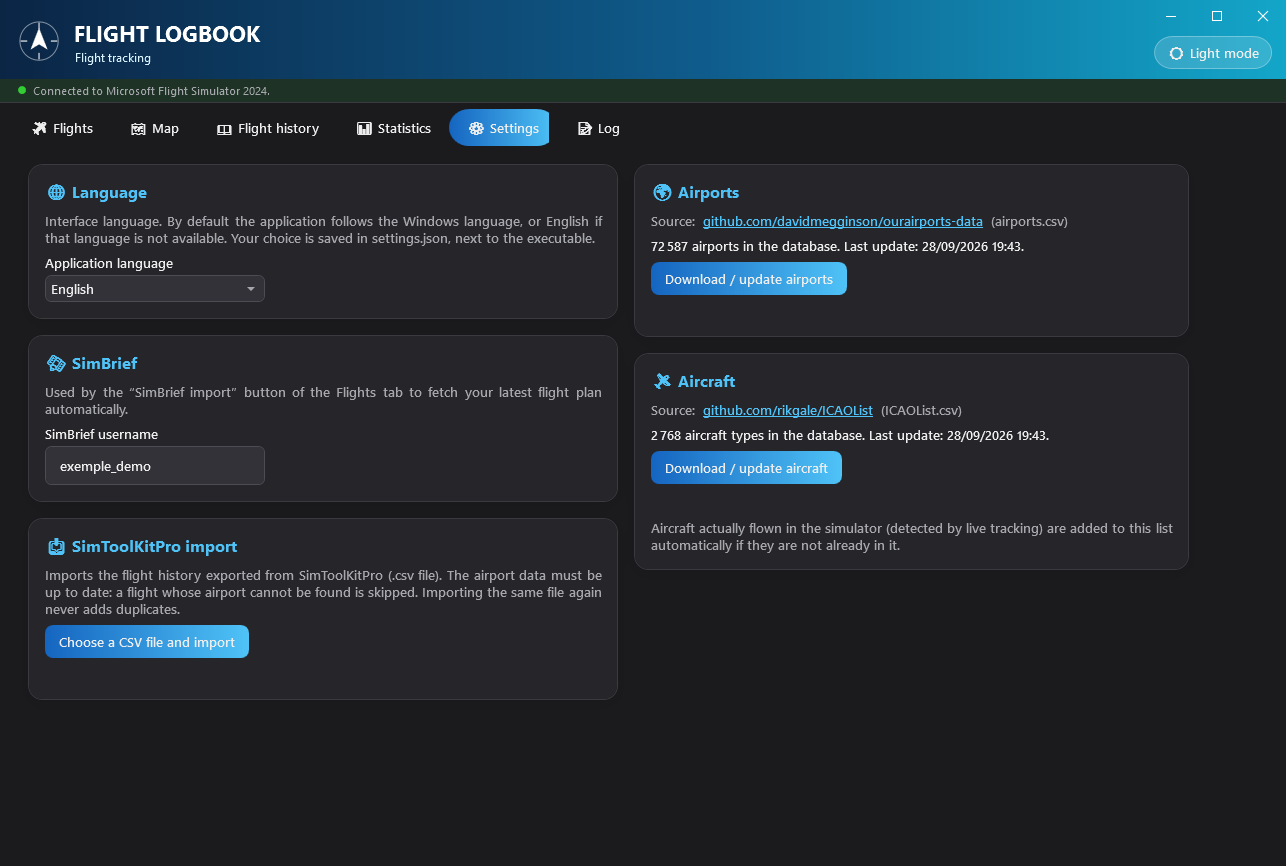
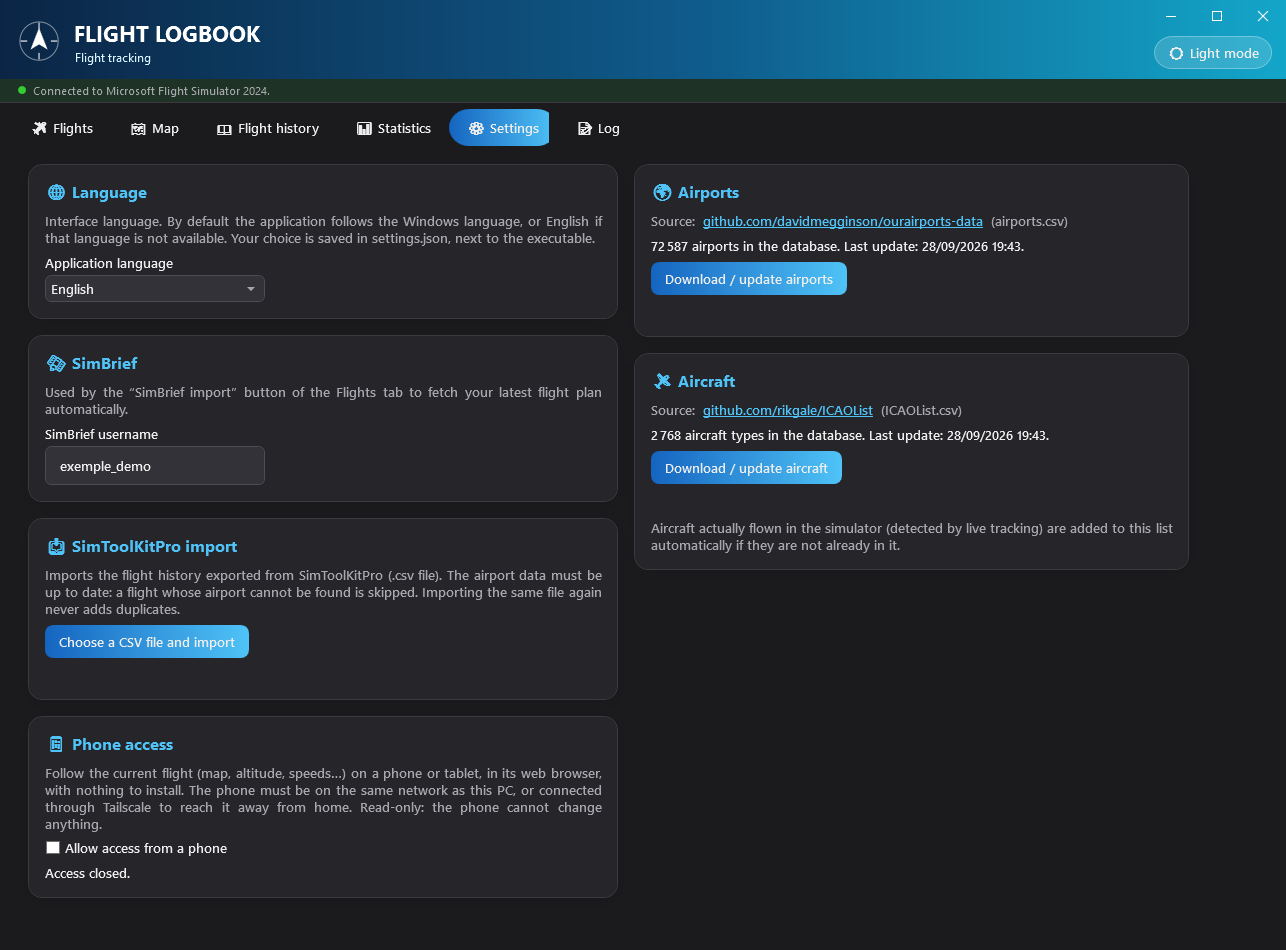
Carnet de Vol 2.0.0 : guides, capture Configuration et mentions de Leaflet
- Guides recopiés depuis CarnetDeVol (version 2.0.0, accès depuis le
  téléphone) avec les captures de la page du téléphone (fr/en/es).
- Captures Configuration fr/en refaites (nouvelle carte « Accès depuis le
  téléphone ») : 1286 × 950, SIZES mis à jour.
- Copyright FR/EN : carte « Composant tiers intégré : Leaflet » (BSD à
  2 clauses, mention de copyright et avertissement) ; OpenStreetMap sert
  aussi à la page du téléphone.

diff --git a/assets/js/i18n.js b/assets/js/i18n.js
@@ -171,6 +171,8 @@ window.KH_I18N = {
     "cr.marksText": "<p>Microsoft Flight Simulator 2024, SimConnect et Windows sont des marques de Microsoft Corporation. SimBrief est une marque de Navigraph. Les autres noms cités appartiennent à leurs propriétaires respectifs.</p><p>Carnet de Vol et Camify sont des projets indépendants : ils ne sont ni affiliés, ni approuvés, ni soutenus par Microsoft, Navigraph ou les autres services cités sur cette page.</p>",
     "cr.componentsTitle": "Composant tiers intégré : SimConnect.dll (Camify)",
     "cr.componentsText": "<p><code>Camify.exe</code> intègre, sans modification, le fichier <code>SimConnect.dll</code> (client SimConnect natif x64) issu du Microsoft Flight Simulator 2024 SDK 1.7.3. <code>SimConnect.dll</code> © Microsoft Corporation, tous droits réservés.</p><p>Il est fourni « tel quel », sans garantie, et reste soumis aux termes de licence du Microsoft Flight Simulator SDK, joints à chaque version de Camify sous le nom <code>MSFS-SDK-EULA.pdf</code>. Camify l'utilise uniquement pour communiquer avec une copie de Microsoft Flight Simulator 2024 légalement installée, et ne le charge que si son empreinte SHA-256 correspond à celle attendue.</p>",
+    "cr.leafletTitle": "Composant tiers intégré : Leaflet (Carnet de Vol)",
+    "cr.leafletText": "<p><code>CarnetDeVol.exe</code> intègre, sans modification, la bibliothèque cartographique <a href=\"https://leafletjs.com/\">Leaflet</a> 1.9.4, qui affiche la carte de la page du téléphone (accès depuis le téléphone). Copyright © 2010-2023, Volodymyr Agafonkin ; copyright © 2010-2011, CloudMade. Tous droits réservés.</p><p>Leaflet est distribuée sous <a href=\"https://github.com/Leaflet/Leaflet/blob/main/LICENSE\">licence BSD à 2 clauses</a> : la redistribution, avec ou sans modification, est permise à condition de reproduire cette mention de copyright, cette liste de conditions et l'avertissement suivant. Le logiciel est fourni par les détenteurs du copyright et les contributeurs « tel quel », sans aucune garantie expresse ou implicite ; ils ne sauraient être tenus responsables d'aucun dommage résultant de son utilisation.</p>",
     "cr.dataTitle": "Sources de données et licences",
     "cr.dataIntro": "Les applications n'utilisent que des appels en lecture seule vers les services ci-dessous. Conditions vérifiées le 24/09/2026 sur les pages officielles de chaque service ; elles peuvent évoluer, les liens indiqués font foi.",
     "cr.thService": "Service",
@@ -178,7 +180,7 @@ window.KH_I18N = {
     "cr.thUse": "Utilisation",
     "cr.thLicense": "Licence / conditions",
     "cr.bothApps": "Les deux",
-    "cr.osm.use": "Fond de carte de l'onglet Carte (tuiles tile.openstreetmap.org)",
+    "cr.osm.use": "Fond de carte de l'onglet Carte et de la page du téléphone (tuiles tile.openstreetmap.org)",
     "cr.osm.license": "Données sous licence <a href=\"https://opendatacommons.org/licenses/odbl/\">ODbL</a>, attribution « © OpenStreetMap contributors » obligatoire ; usage des tuiles soumis à la <a href=\"https://operations.osmfoundation.org/policies/tiles/\">politique d'usage des tuiles</a> de l'OSMF.",
     "cr.ourairports.use": "Carnet de Vol : référentiel des aéroports (<code>airports.csv</code>). Camify : aéroports et pistes (<code>airports.csv</code>, <code>runways.csv</code>) pour le mode tour de contrôle, téléchargés au premier lancement.",
     "cr.ourairports.license": "Domaine public (dépôt sous The Unlicense) ; fourni sans garantie d'exactitude.",
@@ -360,6 +362,8 @@ window.KH_I18N = {
     "cr.marksText": "<p>Microsoft Flight Simulator 2024, SimConnect and Windows are trademarks of Microsoft Corporation. SimBrief is a trademark of Navigraph. Other names mentioned belong to their respective owners.</p><p>Flight Logbook and Camify are independent projects: they are not affiliated with, endorsed or sponsored by Microsoft, Navigraph or the other services mentioned on this page.</p>",
     "cr.componentsTitle": "Embedded third-party component: SimConnect.dll (Camify)",
     "cr.componentsText": "<p><code>Camify.exe</code> embeds, unmodified, the <code>SimConnect.dll</code> file (native x64 SimConnect client) from the Microsoft Flight Simulator 2024 SDK 1.7.3. <code>SimConnect.dll</code> © Microsoft Corporation, all rights reserved.</p><p>It is provided “as is”, without warranty, and remains subject to the Microsoft Flight Simulator SDK license terms, attached to each Camify release as <code>MSFS-SDK-EULA.pdf</code>. Camify only uses it to communicate with a legally installed copy of Microsoft Flight Simulator 2024, and only loads it when its SHA-256 fingerprint matches the expected one.</p>",
+    "cr.leafletTitle": "Embedded third-party component: Leaflet (Flight Logbook)",
+    "cr.leafletText": "<p><code>CarnetDeVol.exe</code> embeds, unmodified, the <a href=\"https://leafletjs.com/\">Leaflet</a> 1.9.4 mapping library, which draws the map of the phone page (phone access). Copyright © 2010-2023, Volodymyr Agafonkin; copyright © 2010-2011, CloudMade. All rights reserved.</p><p>Leaflet is distributed under the <a href=\"https://github.com/Leaflet/Leaflet/blob/main/LICENSE\">2-clause BSD license</a>: redistribution, with or without modification, is permitted provided that this copyright notice, this list of conditions and the following disclaimer are retained. The software is provided by the copyright holders and contributors “as is”, without any express or implied warranty; in no event shall they be liable for any damages arising from its use.</p>",
     "cr.dataTitle": "Data sources and licences",
     "cr.dataIntro": "The applications only make read-only calls to the services below. Terms checked on 24/09/2026 on each service's official pages; they may change, and the linked pages prevail.",
     "cr.thService": "Service",
@@ -367,7 +371,7 @@ window.KH_I18N = {
     "cr.thUse": "Use",
     "cr.thLicense": "Licence / terms",
     "cr.bothApps": "Both",
-    "cr.osm.use": "Base map of the Map tab (tile.openstreetmap.org tiles)",
+    "cr.osm.use": "Base map of the Map tab and of the phone page (tile.openstreetmap.org tiles)",
     "cr.osm.license": "Data under the <a href=\"https://opendatacommons.org/licenses/odbl/\">ODbL</a>, “© OpenStreetMap contributors” attribution required; tile use subject to the OSMF <a href=\"https://operations.osmfoundation.org/policies/tiles/\">tile usage policy</a>.",
     "cr.ourairports.use": "Flight Logbook: airport reference data (<code>airports.csv</code>). Camify: airports and runways (<code>airports.csv</code>, <code>runways.csv</code>) for the control tower mode, downloaded on first launch.",
     "cr.ourairports.license": "Public domain (repository under The Unlicense); provided with no guarantee of accuracy.",

diff --git a/guides/carnetdevol/guia-usuario.html b/guides/carnetdevol/guia-usuario.html
@@ -272,7 +272,7 @@
   <div class="icon">🧭</div>
   <h1>Bitácora de vuelo — Guía del usuario</h1>
   <p>Seguimiento de vuelos · Microsoft Flight Simulator 2024</p>
-  <span class="badge">Versión 1.0.27 · Windows · aplicación nativa</span>
+  <span class="badge">Versión 2.0.0 · Windows · aplicación nativa</span>
 </header>
 
 <div class="layout">
@@ -713,11 +713,11 @@
 
     <section id="pestana-configuracion" class="tab-section">
       <h2 class="section-title"><span class="emoji">⚙</span> 8. Configuración</h2>
-      <p class="section-lead">Idioma de la aplicación, usuario de SimBrief, actualización de aeropuertos/aeronaves e importación de SimToolKitPro.</p>
+      <p class="section-lead">Idioma de la aplicación, usuario de SimBrief, actualización de aeropuertos/aeronaves, importación de SimToolKitPro y acceso desde el teléfono.</p>
       <figure>
-        <img src="../../assets/img/carnetdevol/en-config.png" alt="Pestaña Configuración con los bloques Idioma, SimBrief, Aeropuertos y Aeronaves" loading="lazy" />
+        <img src="../../assets/img/carnetdevol/en-config.png" alt="Pestaña Configuración con los bloques Idioma, SimBrief, Importación SimToolKitPro, Acceso desde el teléfono, Aeropuertos y Aeronaves" loading="lazy" />
         <figcaption>Los ajustes a la izquierda (idioma, usuario de SimBrief, importación de
-        SimToolKitPro) y los conjuntos de datos a la derecha, con sus contadores y la fecha de la
+        SimToolKitPro, acceso desde el teléfono) y los conjuntos de datos a la derecha, con sus contadores y la fecha de la
         última actualización.</figcaption>
       </figure>
       <div class="card">
@@ -770,6 +770,49 @@
           <strong>Sin riesgo de duplicados</strong>
           Importar varias veces el mismo archivo nunca añade dos veces el mismo vuelo.
         </div>
+
+        <h4 id="acceso-telefono">📱 Acceso desde el teléfono</h4>
+        <p>Sigue el vuelo en curso desde un <strong>teléfono</strong> o una <strong>tableta</strong>
+        (iPhone, Android…), en su navegador, sin instalar nada: posición del avión en el mapa con la
+        traza del vuelo, altitud, velocidad sobre el suelo, velocidad vertical, rumbo, fase (en
+        tierra / en vuelo), factor de carga, salida y llegada, aeronave, duración del seguimiento,
+        llegada estimada y último aterrizaje. El teléfono es de <strong>solo lectura</strong>: no
+        puede modificar nada en Carnet de Vol.</p>
+        <figure>
+          <img src="images/es-telephone.jpg" alt="Página del teléfono: mapa con la traza del vuelo Londres – París, altitud, velocidades, rumbo, fase y factor de carga" loading="lazy" style="max-width: 320px;" />
+          <figcaption>La página del teléfono durante un vuelo; el icono Compartir, arriba a la derecha, prepara el añadido a la pantalla de inicio.</figcaption>
+        </figure>
+        <ol>
+          <li>Marca <strong>Permitir el acceso desde el teléfono</strong> (desactivado por defecto).
+          La primera vez, Windows puede pedir que se permita Carnet de Vol en su cortafuegos:
+          permítelo solo en <strong>redes privadas</strong>.</li>
+          <li>Elige la <strong>dirección del PC</strong> (red local, o Tailscale para acceder desde
+          fuera de casa) y haz clic en <strong>Mostrar el código QR</strong>.</li>
+          <li>Escanea el código QR con la <strong>cámara</strong> del teléfono: la página se abre
+          directamente. Para convertirla en un icono, como una aplicación, toca primero el icono
+          <strong>Compartir</strong> junto al estado, arriba de la página, y luego Compartir en Safari y
+          <strong>Añadir a pantalla de inicio</strong>.</li>
+        </ol>
+        <div class="callout note">
+          <strong>Seguridad</strong>
+          El código QR contiene un <strong>código secreto</strong> propio de tu PC: sin él, no se
+          transmite ningún dato. No lo compartas; se oculta solo al cabo de tres minutos. Ante la
+          duda, <strong>Cambiar el código</strong> desconecta de inmediato todos los teléfonos, que
+          deberán escanear el nuevo código QR. Solo pueden conectarse los dispositivos de tu red
+          local (o de tu red Tailscale); hasta cuatro teléfonos a la vez.
+        </div>
+        <div class="callout tip">
+          <strong>Fuera de casa</strong>
+          Instala <a href="https://tailscale.com/" target="_blank" rel="noopener">Tailscale</a>
+          (gratuito para uso personal) en el PC y en el teléfono, con la misma cuenta: la dirección
+          Tailscale del PC (100.x.x.x) aparece entonces en la lista. La conexión está cifrada y no
+          hay que abrir ningún puerto en el router. No redirijas nunca el puerto 8741 del router al
+          PC: las conexiones procedentes de Internet se rechazan de todos modos.
+        </div>
+        <p>Si el teléfono muestra «PC inaccesible», comprueba que Carnet de Vol está abierto, que el
+        acceso está marcado y que el teléfono está en la misma red Wi-Fi que el PC (no en una red de
+        invitados, ni en 4G/5G sin Tailscale). El ajuste y el código se guardan en
+        <code class="path">settings.json</code>, junto al ejecutable.</p>
       </div>
     </section>
 
@@ -923,6 +966,13 @@
             (<a href="https://www.weather.gov/disclaimer" target="_blank" rel="noopener">aviso legal del NWS</a>),
             proporcionada «tal cual», sin garantía; límite de 100 consultas por minuto.</td>
           </tr>
+          <tr>
+            <td><a href="https://leafletjs.com/" target="_blank" rel="noopener">Leaflet</a> 1.9.4</td>
+            <td>Mapa de la página del teléfono (<a href="#acceso-telefono">acceso desde el teléfono</a>),
+            incluido en el ejecutable; mapa base de OpenStreetMap cargado por el teléfono</td>
+            <td>Licencia <strong>BSD de 2 cláusulas</strong>: © 2010-2023 Volodymyr Agafonkin,
+            © 2010-2011 CloudMade.</td>
+          </tr>
         </table>
         <div class="callout note">
           <strong>Uso exclusivamente simulado</strong>
@@ -950,7 +1000,7 @@
 </div>
 
 <footer>
-  Bitácora de vuelo (Carnet de Vol) — FS2024 · Guía redactada para la versión 1.0.27.
+  Bitácora de vuelo (Carnet de Vol) — FS2024 · Guía redactada para la versión 2.0.0.
 </footer>
 
 <script>

diff --git a/guides/carnetdevol/guide-utilisateur.html b/guides/carnetdevol/guide-utilisateur.html
@@ -272,7 +272,7 @@
   <div class="icon">🧭</div>
   <h1>Carnet de Vol — Guide de l'utilisateur</h1>
   <p>Suivi de vols · Microsoft Flight Simulator 2024</p>
-  <span class="badge">Version 1.0.27 · Windows · application native</span>
+  <span class="badge">Version 2.0.0 · Windows · application native</span>
 </header>
 
 <div class="layout">
@@ -704,10 +704,10 @@
 
     <section id="onglet-configuration" class="tab-section">
       <h2 class="section-title"><span class="emoji">⚙</span> 8. Configuration</h2>
-      <p class="section-lead">Langue de l'application, identifiant SimBrief, mise à jour des bases aéroports/appareils, et import SimToolKitPro.</p>
+      <p class="section-lead">Langue de l'application, identifiant SimBrief, mise à jour des bases aéroports/appareils, import SimToolKitPro et accès depuis le téléphone.</p>
       <figure>
-        <img src="../../assets/img/carnetdevol/fr-config.png" alt="Onglet Configuration avec les blocs Langue, SimBrief, Aéroports et Appareils" loading="lazy" />
-        <figcaption>Les réglages à gauche (langue, identifiant SimBrief, import SimToolKitPro), les
+        <img src="../../assets/img/carnetdevol/fr-config.png" alt="Onglet Configuration avec les blocs Langue, SimBrief, Import SimToolKitPro, Accès depuis le téléphone, Aéroports et Appareils" loading="lazy" />
+        <figcaption>Les réglages à gauche (langue, identifiant SimBrief, import SimToolKitPro, accès depuis le téléphone), les
         référentiels à droite, avec leurs compteurs et leur date de dernière mise à jour.</figcaption>
       </figure>
       <div class="card">
@@ -761,6 +761,49 @@
           <strong>Sans risque de doublon</strong>
           Réimporter plusieurs fois le même fichier n'ajoute jamais deux fois le même vol.
         </div>
+
+        <h4 id="acces-telephone">📱 Accès depuis le téléphone</h4>
+        <p>Suivez le vol en cours depuis un <strong>téléphone</strong> ou une <strong>tablette</strong>
+        (iPhone, Android…), dans son navigateur, sans rien installer : position de l'avion sur la
+        carte avec le tracé du vol, altitude, vitesse sol, vitesse verticale, cap, phase (au sol / en
+        vol), facteur de charge, départ et arrivée, appareil, durée du suivi, arrivée estimée et
+        dernier atterrissage. Le téléphone est en <strong>lecture seule</strong> : il ne peut rien
+        modifier dans Carnet de Vol.</p>
+        <figure>
+          <img src="images/fr-telephone.jpg" alt="Page du téléphone : carte avec le tracé du vol Londres – Paris, altitude, vitesses, cap, phase et facteur de charge" loading="lazy" style="max-width: 320px;" />
+          <figcaption>La page du téléphone pendant un vol ; l'icône Partager, en haut à droite, prépare l'ajout à l'écran d'accueil.</figcaption>
+        </figure>
+        <ol>
+          <li>Cochez <strong>Autoriser l'accès depuis le téléphone</strong> (désactivé par défaut).
+          À la première activation, Windows peut demander d'autoriser Carnet de Vol dans son
+          pare-feu : n'acceptez que pour les <strong>réseaux privés</strong>.</li>
+          <li>Choisissez l'<strong>adresse du PC</strong> (réseau local, ou Tailscale pour un accès
+          hors de chez vous), puis cliquez <strong>Afficher le QR code</strong>.</li>
+          <li>Scannez le QR code avec l'<strong>appareil photo</strong> du téléphone : la page
+          s'ouvre directement. Pour en faire une icône, comme une application, touchez d'abord l'icône
+          <strong>Partager</strong> à droite de l'état, en haut de la page, puis Partager dans Safari et
+          <strong>Sur l'écran d'accueil</strong>.</li>
+        </ol>
+        <div class="callout note">
+          <strong>Sécurité</strong>
+          Le QR code contient un <strong>code secret</strong> propre à votre PC : sans lui, aucune
+          donnée n'est transmise. Ne le partagez pas ; il se masque seul après trois minutes. En cas
+          de doute, <strong>Changer le code</strong> déconnecte immédiatement tous les téléphones,
+          qui devront scanner le nouveau QR code. Seuls les appareils de votre réseau local (ou de
+          votre réseau Tailscale) peuvent se connecter ; jusqu'à quatre téléphones à la fois.
+        </div>
+        <div class="callout tip">
+          <strong>Hors de chez vous</strong>
+          Installez <a href="https://tailscale.com/" target="_blank" rel="noopener">Tailscale</a>
+          (gratuit pour un usage personnel) sur le PC et sur le téléphone, avec le même compte :
+          l'adresse Tailscale du PC (100.x.x.x) apparaît alors dans la liste. La liaison est
+          chiffrée et aucun port n'est à ouvrir sur votre box. Ne redirigez jamais le port 8741 de
+          votre box vers le PC : les connexions venant d'Internet sont de toute façon refusées.
+        </div>
+        <p>Si le téléphone affiche « PC injoignable », vérifiez que Carnet de Vol est ouvert, que
+        l'accès est coché et que le téléphone est sur le même Wi-Fi que le PC (pas en réseau invité,
+        ni en 4G/5G sans Tailscale). Le réglage et le code sont enregistrés dans
+        <code class="path">settings.json</code>, à côté de l'exécutable.</p>
       </div>
     </section>
 
@@ -911,6 +954,13 @@
             (<a href="https://www.weather.gov/disclaimer" target="_blank" rel="noopener">avertissement NWS</a>),
             fournies « en l'état », sans garantie ; limite de 100 requêtes par minute.</td>
           </tr>
+          <tr>
+            <td><a href="https://leafletjs.com/" target="_blank" rel="noopener">Leaflet</a> 1.9.4</td>
+            <td>Carte de la page du téléphone (<a href="#acces-telephone">accès depuis le téléphone</a>),
+            livrée dans l'exécutable ; fond de carte OpenStreetMap chargé par le téléphone</td>
+            <td>Licence <strong>BSD à 2 clauses</strong> : © 2010-2023 Volodymyr Agafonkin,
+            © 2010-2011 CloudMade.</td>
+          </tr>
         </table>
         <div class="callout note">
           <strong>Usage exclusivement simulé</strong>
@@ -938,7 +988,7 @@
 </div>
 
 <footer>
-  Carnet de Vol — FS2024 · Guide généré pour la version 1.0.27.
+  Carnet de Vol — FS2024 · Guide généré pour la version 2.0.0.
 </footer>
 
 <script>

diff --git a/guides/carnetdevol/user-guide.html b/guides/carnetdevol/user-guide.html
@@ -272,7 +272,7 @@
   <div class="icon">🧭</div>
   <h1>Flight Logbook — User guide</h1>
   <p>Flight tracking · Microsoft Flight Simulator 2024</p>
-  <span class="badge">Version 1.0.27 · Windows · native application</span>
+  <span class="badge">Version 2.0.0 · Windows · native application</span>
 </header>
 
 <div class="layout">
@@ -695,10 +695,10 @@
 
     <section id="settings-tab" class="tab-section">
       <h2 class="section-title"><span class="emoji">⚙</span> 8. Settings</h2>
-      <p class="section-lead">Application language, SimBrief username, airport/aircraft data updates, and SimToolKitPro import.</p>
+      <p class="section-lead">Application language, SimBrief username, airport/aircraft data updates, SimToolKitPro import and phone access.</p>
       <figure>
-        <img src="../../assets/img/carnetdevol/en-config.png" alt="Settings tab with the Language, SimBrief, Airports and Aircraft blocks" loading="lazy" />
-        <figcaption>Settings on the left (language, SimBrief username, SimToolKitPro import),
+        <img src="../../assets/img/carnetdevol/en-config.png" alt="Settings tab with the Language, SimBrief, SimToolKitPro import, Phone access, Airports and Aircraft blocks" loading="lazy" />
+        <figcaption>Settings on the left (language, SimBrief username, SimToolKitPro import, phone access),
         reference data on the right, with their counters and last update date.</figcaption>
       </figure>
       <div class="card">
@@ -749,6 +749,48 @@
           <strong>No risk of duplicates</strong>
           Importing the same file several times never adds the same flight twice.
         </div>
+
+        <h4 id="phone-access">📱 Phone access</h4>
+        <p>Follow the current flight on a <strong>phone</strong> or <strong>tablet</strong> (iPhone,
+        Android…), in its web browser, with nothing to install: aircraft position on the map with
+        the flight track, altitude, ground speed, vertical speed, heading, phase (on ground /
+        airborne), load factor, departure and arrival, aircraft, tracking time, estimated arrival and
+        last landing. The phone is <strong>read-only</strong>: it cannot change anything in Carnet
+        de Vol.</p>
+        <figure>
+          <img src="images/en-telephone.jpg" alt="Phone page: map with the London – Paris flight track, altitude, speeds, heading, phase and load factor" loading="lazy" style="max-width: 320px;" />
+          <figcaption>The phone page during a flight; the Share icon at the top right prepares adding it to the Home Screen.</figcaption>
+        </figure>
+        <ol>
+          <li>Tick <strong>Allow access from a phone</strong> (off by default). The first time,
+          Windows may ask to allow Carnet de Vol through its firewall: allow it on
+          <strong>private networks</strong> only.</li>
+          <li>Pick the <strong>PC address</strong> (local network, or Tailscale to reach it away
+          from home), then click <strong>Show the QR code</strong>.</li>
+          <li>Scan the QR code with the phone's <strong>camera</strong>: the page opens directly.
+          To turn it into an icon, like an app, first tap the <strong>Share</strong> icon next to the
+          status at the top of the page, then Share in Safari and <strong>Add to Home Screen</strong>.</li>
+        </ol>
+        <div class="callout note">
+          <strong>Security</strong>
+          The QR code holds a <strong>secret code</strong> unique to your PC: without it, no data is
+          sent. Do not share it; it hides itself after three minutes. If in doubt,
+          <strong>Change the code</strong> disconnects every phone at once; they will have to scan
+          the new QR code. Only devices on your local network (or your Tailscale network) can
+          connect; up to four phones at a time.
+        </div>
+        <div class="callout tip">
+          <strong>Away from home</strong>
+          Install <a href="https://tailscale.com/" target="_blank" rel="noopener">Tailscale</a>
+          (free for personal use) on the PC and on the phone, with the same account: the PC's
+          Tailscale address (100.x.x.x) then appears in the list. The link is encrypted and no port
+          needs to be opened on your router. Never forward port 8741 from your router to the PC:
+          connections coming from the Internet are refused anyway.
+        </div>
+        <p>If the phone shows “PC unreachable”, check that Carnet de Vol is open, that access is
+        ticked and that the phone is on the same Wi-Fi as the PC (not a guest network, nor 4G/5G
+        without Tailscale). The setting and the code are saved in
+        <code class="path">settings.json</code>, next to the executable.</p>
       </div>
     </section>
 
@@ -900,6 +942,13 @@
             (<a href="https://www.weather.gov/disclaimer" target="_blank" rel="noopener">NWS disclaimer</a>),
             provided “as is”, with no warranty; limit of 100 requests per minute.</td>
           </tr>
+          <tr>
+            <td><a href="https://leafletjs.com/" target="_blank" rel="noopener">Leaflet</a> 1.9.4</td>
+            <td>Map of the phone page (<a href="#phone-access">phone access</a>), shipped inside the
+            executable; OpenStreetMap base map loaded by the phone</td>
+            <td><strong>BSD 2-Clause</strong> license: © 2010-2023 Volodymyr Agafonkin,
+            © 2010-2011 CloudMade.</td>
+          </tr>
         </table>
         <div class="callout note">
           <strong>Simulation use only</strong>
@@ -925,7 +974,7 @@
 </div>
 
 <footer>
-  Flight Logbook (Carnet de Vol) — FS2024 · Guide written for version 1.0.27.
+  Flight Logbook (Carnet de Vol) — FS2024 · Guide written for version 2.0.0.
 </footer>
 
 <script>

diff --git a/assets/js/main.js b/assets/js/main.js
@@ -105,7 +105,7 @@
 
   var SIZES = {
     vols: [1286, 866], carte: [1286, 866], historique: [1845, 866],
-    stats: [1286, 866], config: [1286, 866], atterrissage: [344, 134]
+    stats: [1286, 866], config: [1286, 950], atterrissage: [344, 134]
   };
   // config : fenêtre modale de configuration, dont la hauteur varie avec la langue (retours à la ligne).
   var CAMIFY_SIZES = {

diff --git a/copyright-en.html b/copyright-en.html
@@ -78,6 +78,11 @@
         <div data-i18n-html="cr.componentsText"></div>
       </section>
 
+      <section class="legal-card theme-cdv">
+        <h2 data-i18n="cr.leafletTitle"></h2>
+        <div data-i18n-html="cr.leafletText"></div>
+      </section>
+
       <section class="legal-card">
         <h2 data-i18n="cr.dataTitle"></h2>
         <p data-i18n="cr.dataIntro"></p>

diff --git a/copyright.html b/copyright.html
@@ -78,6 +78,11 @@
         <div data-i18n-html="cr.componentsText"></div>
       </section>
 
+      <section class="legal-card theme-cdv">
+        <h2 data-i18n="cr.leafletTitle"></h2>
+        <div data-i18n-html="cr.leafletText"></div>
+      </section>
+
       <section class="legal-card">
         <h2 data-i18n="cr.dataTitle"></h2>
         <p data-i18n="cr.dataIntro"></p>
